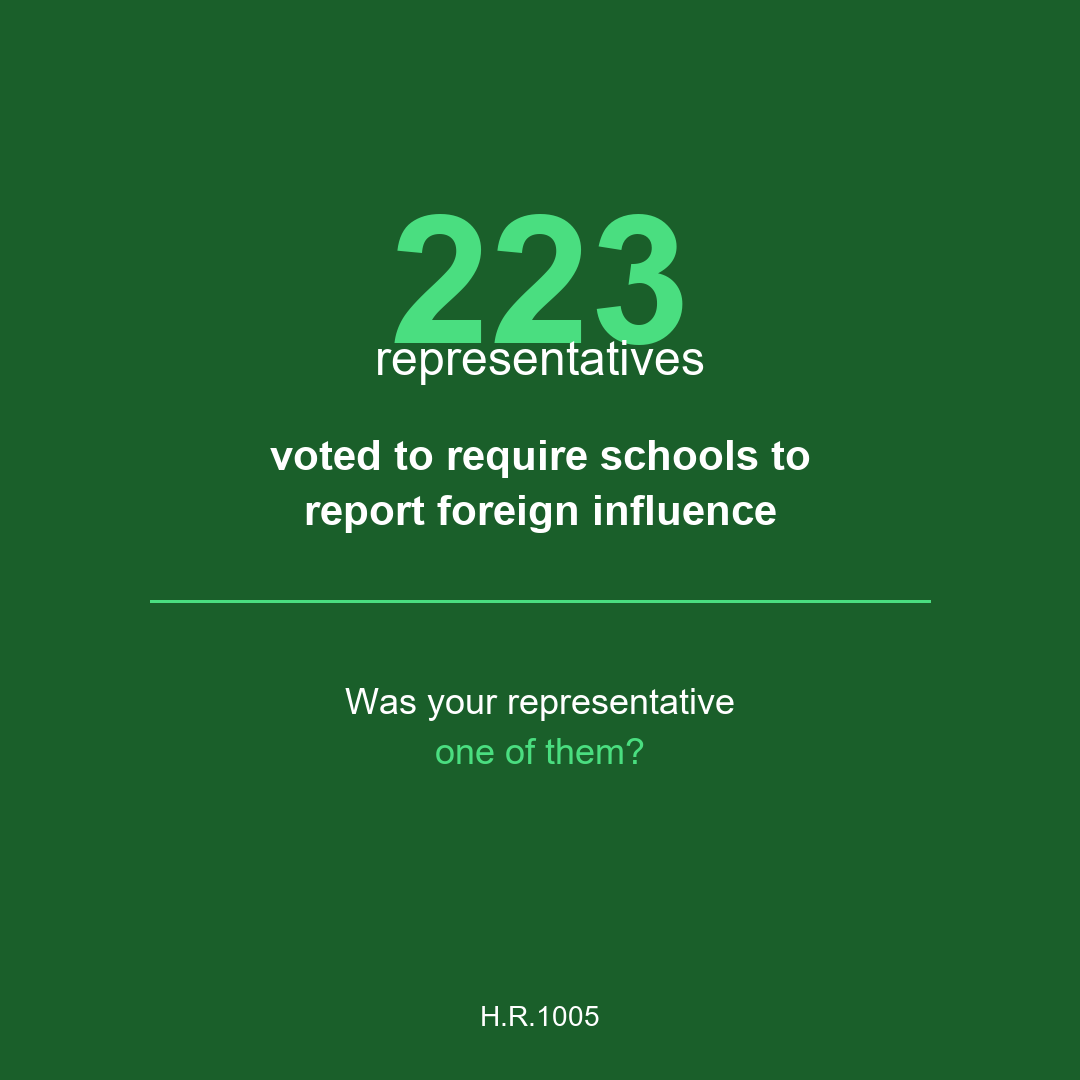
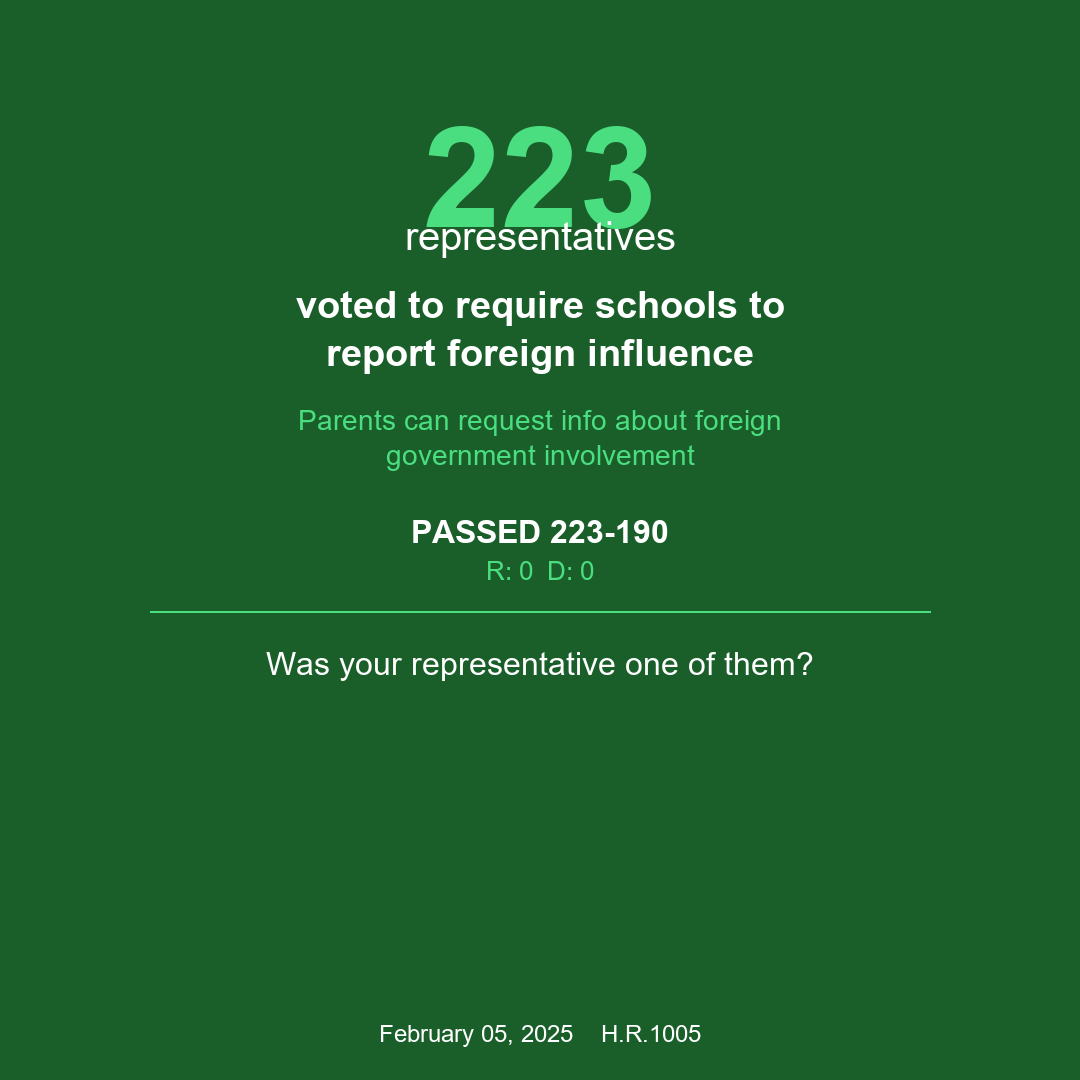
Enhance shareable cards with more context
Added to each card:
- Impact text: one-line explanation of what the bill means for people
- Vote result with margin: 'PASSED 217-211' or 'FAILED 211-206'
- Party breakdown: 'R: 213  D: 4' showing bipartisan/partisan split
- Date: formatted as 'December 2, 2025'

Layout refined to fit all elements cleanly without overwhelming

Changed region(s): [[0.1528, 0.0917, 0.8556, 0.7028], [0.3667, 0.9167, 0.6417, 0.9778]]

diff --git a/scripts/shareable_card_generator.py b/scripts/shareable_card_generator.py
@@ -55,10 +55,12 @@ def _get_font(size: int, bold: bool = False) -> ImageFont.FreeTypeFont:
     return ImageFont.load_default()
 
 
-def get_vote_action_text(analysis: Dict, vote_passed: bool) -> str:
-    """Generate a simple action description from the bill analysis.
+def get_vote_action_text(analysis: Dict, vote_passed: bool) -> Tuple[str, str]:
+    """Generate action description and impact text from the bill analysis.
     
-    Returns something like "voted to limit environmental reviews"
+    Returns: (action_text, impact_text)
+        action_text: something like "limit environmental reviews"
+        impact_text: one-line explanation of what this means for people
     """
     title = analysis.get('bill_title', '')
     summary = analysis.get('brief_summary', '')
@@ -72,35 +74,47 @@ def get_vote_action_text(analysis: Dict, vote_passed: bool) -> str:
     text_lower = (summary + ' ' + short_title).lower()
     
     if re.search(r'(nepa|environmental\s+review).*?(limit|scope|narrow)', text_lower):
-        return "limit environmental reviews"
+        return ("limit environmental reviews", 
+                "Could speed up construction but reduce environmental safeguards")
     if re.search(r'(pipeline|ferc).*?(review|coordinat)', text_lower):
-        return "speed up pipeline approvals"
+        return ("speed up pipeline approvals",
+                "Faster energy projects, but less time for community input")
     if re.search(r'(health\s*care|premium).*?(lower|reduce|cost)', text_lower):
-        return "change health care costs"
+        return ("change health care costs",
+                "Aims to affect what you pay for health insurance")
     if re.search(r'(school|education).*?(foreign|china|adversar)', text_lower):
-        return "require schools to report foreign influence"
+        return ("require schools to report foreign influence",
+                "Parents can request info about foreign government involvement")
     if re.search(r'(mining|mineral).*?(regulat|permit)', text_lower):
-        return "change mining regulations"
+        return ("change mining regulations",
+                "Affects how mining companies operate on federal lands")
     if re.search(r'(child|minor).*?(protect|safe)', text_lower):
-        return "strengthen child protections"
+        return ("strengthen child protections",
+                "New safeguards for children's health and safety")
     if re.search(r'(medicaid|medicare).*?(prohibit|restrict)', text_lower):
-        return "restrict Medicaid coverage"
+        return ("restrict Medicaid coverage",
+                "Could limit healthcare access for low-income families")
     if re.search(r'(wildlife|endangered|species)', text_lower):
-        return "change wildlife protections"
+        return ("change wildlife protections",
+                "Affects how endangered species are protected")
     if re.search(r'(tax|income).*?(cut|reduce|lower)', text_lower):
-        return "cut taxes"
+        return ("cut taxes",
+                "Changes how much you or businesses pay in taxes")
     if re.search(r'(military|defense|armed)', text_lower):
-        return "authorize military spending"
+        return ("authorize military spending",
+                "Funds defense programs and military personnel")
     if re.search(r'(immigration|border|visa)', text_lower):
-        return "change immigration rules"
+        return ("change immigration rules",
+                "Affects who can enter or stay in the country")
     if re.search(r'(electric|utility|energy)', text_lower):
-        return "change energy regulations"
+        return ("change energy regulations",
+                "Could affect electricity prices and energy sources")
     
     # Fallback: use short title if available
     if short_title and len(short_title) < 40:
-        return f"pass the {short_title}"
+        return (f"pass the {short_title}", "Changes federal law and policy")
     
-    return "pass this bill"
+    return ("pass this bill", "Changes federal law and policy")
 
 
 def load_bill_data(bill_folder: Path) -> Tuple[Dict, Dict, bool]:
@@ -150,6 +164,8 @@ def create_shareable_card(
     Returns:
         Path to the created image
     """
+    import textwrap
+    
     # Load data
     analysis, vote_data, vote_passed = load_bill_data(bill_folder)
     
@@ -157,31 +173,59 @@ def create_shareable_card(
     yea_count = counts.get('yea', 0)
     nay_count = counts.get('nay', 0)
     
-    # Determine which count to feature (the winning side)
+    # Calculate party breakdown from members data
+    members = vote_data.get('members', [])
+    rep_yea, rep_nay, dem_yea, dem_nay = 0, 0, 0, 0
+    for member in members:
+        party = member.get('Party', '')
+        vote = member.get('Vote', '')
+        if 'Republican' in party:
+            if vote == 'Yea':
+                rep_yea += 1
+            elif vote == 'Nay':
+                rep_nay += 1
+        elif 'Democrat' in party:
+            if vote == 'Yea':
+                dem_yea += 1
+            elif vote == 'Nay':
+                dem_nay += 1
+    
+    # Get vote date from analysis
+    vote_date = analysis.get('date_of_vote', '')
+    
+    # Determine outcome and colors
     if vote_passed:
         featured_count = yea_count
         vote_verb = "voted to"
         colors = COLORS['passed']
+        result_text = f"PASSED {yea_count}-{nay_count}"
+        party_text = f"R: {rep_yea}  D: {dem_yea}"
     else:
         featured_count = nay_count
         vote_verb = "voted against"
         colors = COLORS['failed']
+        result_text = f"FAILED {nay_count}-{yea_count}"
+        party_text = f"R: {rep_nay}  D: {dem_nay}"
     
-    # Get action text
-    action_text = get_vote_action_text(analysis, vote_passed)
+    # Get action text and impact
+    action_text, impact_text = get_vote_action_text(analysis, vote_passed)
     
     # Create image
     img = Image.new('RGB', (width, height), colors['background'])
     draw = ImageDraw.Draw(img)
     
     # Fonts
-    count_font = _get_font(180, bold=True)
-    label_font = _get_font(48, bold=False)
-    action_font = _get_font(42, bold=True)
-    cta_font = _get_font(36, bold=False)
+    count_font = _get_font(140, bold=True)  # Slightly smaller to fit more
+    label_font = _get_font(40, bold=False)
+    action_font = _get_font(38, bold=True)
+    impact_font = _get_font(28, bold=False)
+    result_font = _get_font(32, bold=True)
+    party_font = _get_font(26, bold=False)
+    cta_font = _get_font(32, bold=False)
+    footer_font = _get_font(24, bold=False)
     
     # Layout calculations
-    margin = 60
+    margin = 50
     center_x = width // 2
     
     # Draw the big number
@@ -189,7 +233,7 @@ def create_shareable_card(
     count_bbox = draw.textbbox((0, 0), count_text, font=count_font)
     count_width = count_bbox[2] - count_bbox[0]
     count_height = count_bbox[3] - count_bbox[1]
-    count_y = 180
+    count_y = 100
     draw.text((center_x - count_width // 2, count_y), count_text, 
               fill=colors['accent'], font=count_font)
     
@@ -197,56 +241,87 @@ def create_shareable_card(
     label_text = "representatives"
     label_bbox = draw.textbbox((0, 0), label_text, font=label_font)
     label_width = label_bbox[2] - label_bbox[0]
-    label_y = count_y + count_height + 20
+    label_y = count_y + count_height + 10
     draw.text((center_x - label_width // 2, label_y), label_text,
               fill=colors['text'], font=label_font)
     
     # Draw action text (voted to + action)
     full_action = f"{vote_verb} {action_text}"
-    
-    # Wrap if needed
-    import textwrap
-    wrapped_action = textwrap.fill(full_action, width=28)
+    wrapped_action = textwrap.fill(full_action, width=30)
     action_lines = wrapped_action.split('\n')
     
-    action_y = label_y + 100
+    action_y = label_y + 70
     for line in action_lines:
         line_bbox = draw.textbbox((0, 0), line, font=action_font)
         line_width = line_bbox[2] - line_bbox[0]
         draw.text((center_x - line_width // 2, action_y), line,
                   fill=colors['text'], font=action_font)
-        action_y += 55
+        action_y += 48
+    
+    # Draw impact text (what this means)
+    wrapped_impact = textwrap.fill(impact_text, width=45)
+    impact_lines = wrapped_impact.split('\n')
+    impact_y = action_y + 25
+    for line in impact_lines:
+        line_bbox = draw.textbbox((0, 0), line, font=impact_font)
+        line_width = line_bbox[2] - line_bbox[0]
+        draw.text((center_x - line_width // 2, impact_y), line,
+                  fill=colors['accent'], font=impact_font)
+        impact_y += 35
+    
+    # Draw result and party breakdown
+    result_y = impact_y + 40
+    
+    # Result text (PASSED 217-211)
+    result_bbox = draw.textbbox((0, 0), result_text, font=result_font)
+    result_width = result_bbox[2] - result_bbox[0]
+    draw.text((center_x - result_width // 2, result_y), result_text,
+              fill=colors['text'], font=result_font)
+    
+    # Party breakdown
+    party_y = result_y + 42
+    party_bbox = draw.textbbox((0, 0), party_text, font=party_font)
+    party_width = party_bbox[2] - party_bbox[0]
+    draw.text((center_x - party_width // 2, party_y), party_text,
+              fill=colors['accent'], font=party_font)
     
     # Draw separator line
-    line_y = action_y + 60
+    line_y = party_y + 55
     line_margin = 150
     draw.line([(line_margin, line_y), (width - line_margin, line_y)], 
-              fill=colors['accent'], width=3)
+              fill=colors['accent'], width=2)
     
     # Draw call to action
-    cta_text = "Was your representative"
-    cta2_text = "one of them?"
-    
-    cta_y = line_y + 80
+    cta_text = "Was your representative one of them?"
+    cta_y = line_y + 35
     cta_bbox = draw.textbbox((0, 0), cta_text, font=cta_font)
     cta_width = cta_bbox[2] - cta_bbox[0]
     draw.text((center_x - cta_width // 2, cta_y), cta_text,
               fill=colors['text'], font=cta_font)
     
-    cta2_bbox = draw.textbbox((0, 0), cta2_text, font=cta_font)
-    cta2_width = cta2_bbox[2] - cta2_bbox[0]
-    draw.text((center_x - cta2_width // 2, cta_y + 50), cta2_text,
-              fill=colors['accent'], font=cta_font)
-    
-    # Draw bill number at bottom
+    # Draw footer: date and bill number
     bill_match = re.search(r'([HS]\.?R\.?\s*\d+)', analysis.get('bill_title', ''))
-    if bill_match:
-        bill_num = bill_match.group(1).replace(' ', '')
-        bill_font = _get_font(28, bold=False)
-        bill_bbox = draw.textbbox((0, 0), bill_num, font=bill_font)
-        bill_width = bill_bbox[2] - bill_bbox[0]
-        draw.text((center_x - bill_width // 2, height - 80), bill_num,
-                  fill=colors['text'], font=bill_font)
+    bill_num = bill_match.group(1).replace(' ', '') if bill_match else ''
+    
+    footer_y = height - 60
+    
+    # Format date if available
+    if vote_date:
+        # Convert mm/dd/yyyy to more readable format
+        try:
+            from datetime import datetime
+            dt = datetime.strptime(vote_date, "%m/%d/%Y")
+            date_str = dt.strftime("%B %d, %Y")
+        except:
+            date_str = vote_date
+    else:
+        date_str = ""
+    
+    footer_text = f"{date_str}    {bill_num}" if date_str else bill_num
+    footer_bbox = draw.textbbox((0, 0), footer_text, font=footer_font)
+    footer_width = footer_bbox[2] - footer_bbox[0]
+    draw.text((center_x - footer_width // 2, footer_y), footer_text,
+              fill=colors['text'], font=footer_font)
     
     # Save image
     if output_path is None:
